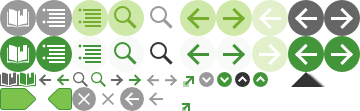
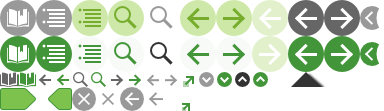
New HTML: add semi-working version of back button
git-svn-id: svn+ssh://svn.code.sf.net/p/daps/svn/trunk/daps@3132 2c1a2506-8097-4b87-b405-3e90b480097b

diff --git a/xslt_suse2/static/css/susebooks.css b/xslt_suse2/static/css/susebooks.css
@@ -37,7 +37,6 @@ a {
     text-decoration: none;
 }
 
-
 /* PAGE BOILERPLATE AND NAVIGATION */
 
 /* Common */
@@ -225,6 +224,20 @@ html, body {
     padding: 0;
     display: inline-block;
     vertical-align: middle;
+}
+
+#_header .crumbs a.back-to-overview-link {
+    display: inline-block;
+    height: 36px;
+    width: 24px;
+    margin-right: -16px;
+    vertical-align: middle;
+    background-image: url(../images/icons.png);
+    background-position: -360px 0px;
+}
+
+#_header .crumbs a.back-to-overview-link:hover {
+    background-position: -360px -36px;
 }
 
 .book-icon, .toc-icon, .find-icon, .tools-icon {
